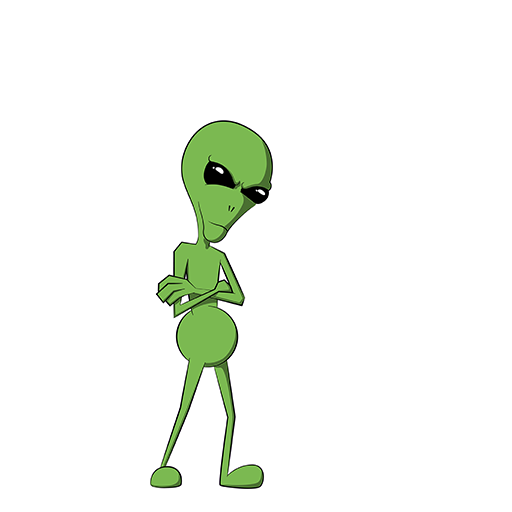
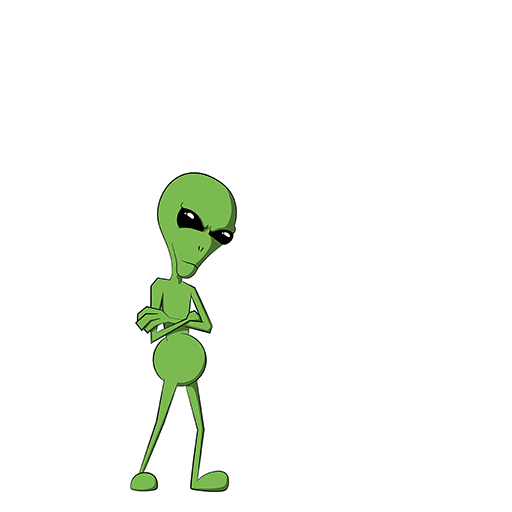
Tweak  action art.

Changed region(s): [[0.25, 0.2188, 0.5312, 0.9688]]

diff --git a/api/includes/characteractions.php b/api/includes/characteractions.php
@@ -110,8 +110,8 @@ $GLOBALS['characterActions'] = [
 	],
 	'skeptical' => [
 		'pointer' => [
-			'x' => 240,
-			'y' => 110,
+			'x' => 220,
+			'y' => 160,
 		],
 	],
 	'standing' => [
